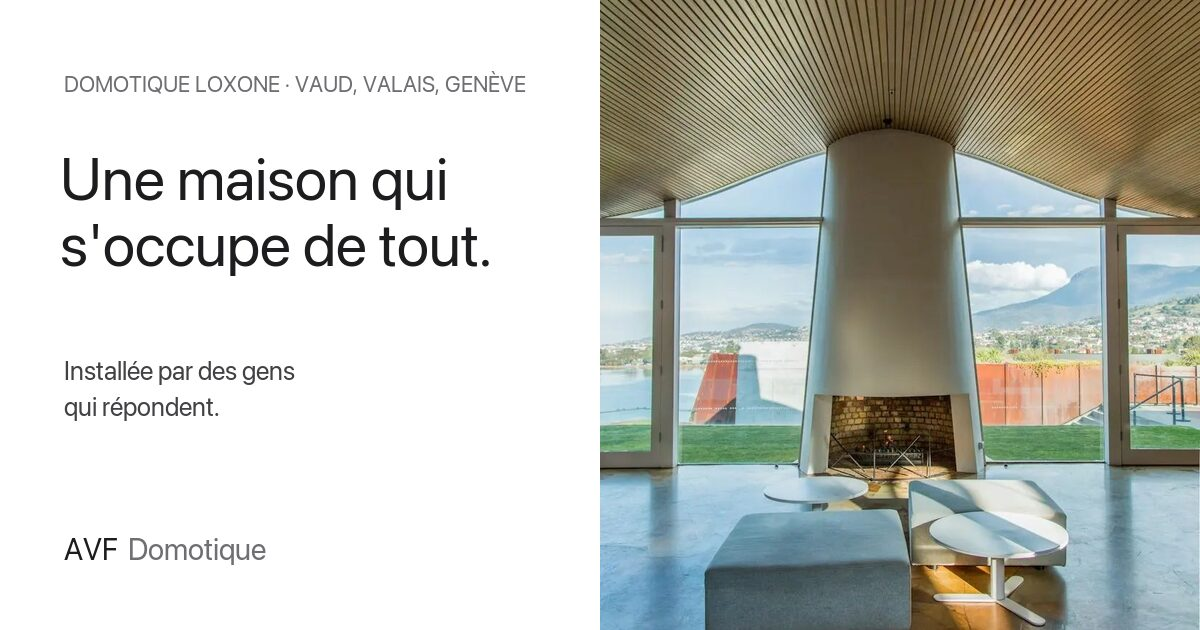
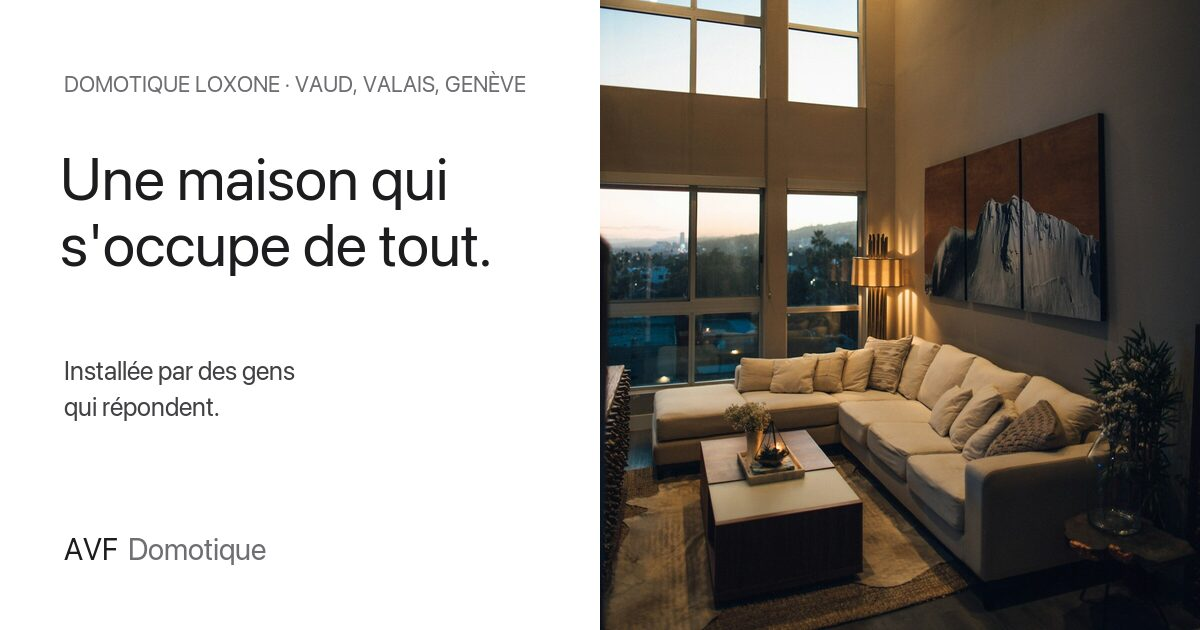
refactor: add better images to describe section

diff --git a/src/components/sections/CommitmentsSection.vue b/src/components/sections/CommitmentsSection.vue
@@ -1,5 +1,5 @@
 <script setup lang="ts">
-import entry from "@/assets/img/entry.jpg?w=480;832&picture";
+import lampBlinds from "@/assets/img/lamp-blinds.jpg?w=600;1152&picture";
 import AppIcon from "@/components/ui/AppIcon.vue";
 import AppPicture from "@/components/ui/AppPicture.vue";
 import SectionHeader from "@/components/ui/SectionHeader.vue";
@@ -11,15 +11,15 @@ import { commitments } from "@/content/commitments";
     <div class="wrap">
       <SectionHeader
         id="engagements-title"
-        eyebrow="Nos engagements"
+        eyebrow="Ce que nous faisons pour vous"
         title="Une installation se juge sur dix ans."
-        lead="Voici nos engagements sur chaque projet, du studio à l'atelier."
+        lead="Sur chaque projet, du studio à l'atelier, voici comment nous travaillons."
       />
 
       <div class="grid gap-4 md:grid-cols-2 lg:grid-cols-4 lg:grid-rows-2">
         <article v-reveal class="relative min-h-80 overflow-hidden rounded-box md:col-span-2 lg:row-span-2">
           <AppPicture
-            :picture="entry"
+            :picture="lampBlinds"
             alt=""
             sizes="(min-width: 1024px) 36rem, 100vw"
             img-class="absolute inset-0 h-full w-full object-cover"

diff --git a/src/components/sections/HeroSection.vue b/src/components/sections/HeroSection.vue
@@ -1,5 +1,5 @@
 <script setup lang="ts">
-import living from "@/assets/img/living.jpg?w=480;832&picture";
+import homeDusk from "@/assets/img/home-dusk.jpg?w=544;832;1088&picture";
 import AppPicture from "@/components/ui/AppPicture.vue";
 import { cta } from "@/content/site";
 
@@ -34,11 +34,11 @@ const proofs = [
 
       <figure class="lg:col-span-6">
         <AppPicture
-          :picture="living"
-          alt="Séjour lumineux avec cheminée centrale et grandes baies vitrées donnant sur un lac"
+          :picture="homeDusk"
+          alt="Séjour au crépuscule, éclairé par des spots et un lampadaire, devant de grandes baies vitrées"
           sizes="(min-width: 1024px) 34rem, calc(100vw - 2rem)"
           eager
-          img-class="aspect-[4/5] w-full rounded-box bg-base-200 object-cover sm:aspect-[5/4] lg:aspect-[4/5]"
+          img-class="aspect-[4/5] w-full rounded-box bg-base-200 object-cover object-[50%_65%] sm:aspect-[5/4] lg:aspect-[4/5]"
         />
       </figure>
     </div>

diff --git a/vite.config.ts b/vite.config.ts
@@ -3,7 +3,7 @@ import { defineConfig } from "vite";
 import vue from "@vitejs/plugin-vue";
 import tailwindcss from "@tailwindcss/vite";
 import { imagetools } from "vite-imagetools";
-import { writeFileSync } from "node:fs";
+import { rmSync, writeFileSync } from "node:fs";
 import type { ViteSSGOptions } from "vite-ssg";
 import { canonicalUrl } from "./src/content/site.ts";
 
@@ -36,6 +36,8 @@ export default defineConfig({
       return renderedPaths.concat("/404");
     },
     onFinished: () => {
+      // Manifeste interne au rendu : inutile en ligne
+      rmSync("dist/.vite", { recursive: true, force: true });
       const urls = renderedPaths
         .filter((p) => !NOT_INDEXED.includes(p))
         .map((p) => `  <url><loc>${canonicalUrl(p)}</loc></url>`);

diff --git a/src/content/segments.ts b/src/content/segments.ts
@@ -1,8 +1,8 @@
 import type { Picture } from "vite-imagetools";
 import kitchen from "@/assets/img/kitchen.jpg?w=400;640&picture";
-import shop from "@/assets/img/shop.jpg?w=400;500&picture";
+import shop from "@/assets/img/shop-window.jpg?w=400;640&picture";
 import dining from "@/assets/img/dining.jpg?w=400;640&picture";
-import office from "@/assets/img/office.jpg?w=400;500&picture";
+import office from "@/assets/img/office-daylight.jpg?w=400;640&picture";
 
 export type SegmentId = "residence" | "commerce" | "hotellerie" | "entreprise";
 

diff --git a/src/content/commitments.ts b/src/content/commitments.ts
@@ -16,7 +16,7 @@ export const commitments: Commitment[] = [
   {
     icon: "lock",
     title: "Sécurisé dès la conception",
-    text: "Réseau segmenté, accès distant chiffré, droits par utilisateur. Notre informaticien en est responsable sur chaque chantier.",
+    text: "Le Miniserver fonctionne sur un réseau séparé de vos appareils personnels. L'accès à distance est chiffré, et chaque utilisateur n'a que les droits dont il a besoin.",
   },
   {
     icon: "plug",

diff --git a/README.md b/README.md
@@ -26,10 +26,44 @@ npm run format     # Prettier, tri des classes Tailwind compris
 - `src/assets/main.css` : thème daisyUI `avf` et styles de base
 - `public/` : fichiers copiés tels quels (`favicon.svg`, `.htaccess`, `robots.txt`)
 
-## Mise en ligne
+## Mise en ligne (Infomaniak)
 
-Envoyer **le contenu** de `dist/` à la racine du domaine, y compris le fichier caché `.htaccess`.
-Chaque page est générée en HTML (`/mentions-legales/index.html`…), la 404 sous `/404/`.
+### Première mise en ligne
+
+1. **Manager Infomaniak > Hébergement** : créer le site `avf-domotique.ch` et noter son **dossier racine** (souvent `/sites/avf-domotique.ch`).
+2. **Certificat SSL** : dans les réglages du site, activer le certificat Let's Encrypt pour `avf-domotique.ch` et `www.avf-domotique.ch`, puis l'option qui **force le HTTPS**.
+3. **www** : rediriger `www.avf-domotique.ch` vers `avf-domotique.ch` (redirection 301 dans les réglages du site).
+4. **Accès** : dans **FTP / SSH**, créer un compte et noter l'hôte, l'utilisateur et le mot de passe.
+
+### À chaque mise à jour
+
+1. Vérifier que `.env.local` contient la clé Web3Forms (elle est intégrée au build).
+2. Construire et vérifier :
+   ```bash
+   npm ci && npm run lint && npm test && npm run build
+   npm run preview   # contrôle local de dist/
+   ```
+3. Envoyer **le contenu** de `dist/` (fichier caché `.htaccess` compris) dans le dossier racine :
+   - **SSH / rsync** (recommandé) : essai à blanc avec `-n`, puis envoi réel ; `--delete` retire les anciens fichiers.
+     ```bash
+     rsync -avzn --delete dist/ UTILISATEUR@HOTE:/sites/avf-domotique.ch/
+     rsync -avz  --delete dist/ UTILISATEUR@HOTE:/sites/avf-domotique.ch/
+     ```
+   - **SFTP** (FileZilla…) : afficher les fichiers cachés, supprimer l'ancien contenu, puis déposer celui de `dist/`.
+
+### Vérifications après mise en ligne
+
+- `https://avf-domotique.ch/`, `/confidentialite/`, `/mentions-legales/` s'affichent ; `http://` et `www` redirigent vers `https://avf-domotique.ch/`.
+- Une adresse inexistante (`/test`) affiche la page 404 du site.
+- Le formulaire envoie bien un e-mail à `info@avf-domotique.ch` depuis le site en ligne.
+- `https://avf-domotique.ch/sitemap.xml` et `/robots.txt` répondent.
+- En-têtes : `curl -I https://avf-domotique.ch/` montre `x-content-type-options: nosniff`.
+- Aperçu de partage : coller l'URL dans un message (WhatsApp, LinkedIn…) affiche l'image et le titre.
+
+### Ensuite
+
+- **Google Search Console** : ajouter le domaine, puis soumettre `https://avf-domotique.ch/sitemap.xml`.
+- **Google Business Profile** : fiche « AVF Domotique » à Etoy, avec le lien vers le site.
 
 ## Formulaire de contact
 

diff --git a/src/assets/img/CREDITS.md b/src/assets/img/CREDITS.md
@@ -1,7 +1,15 @@
 # Crédits photos (provisoires)
 
-Photos de banque d'images libres (usage commercial autorisé, attribution non obligatoire).
+Photos sous licence Unsplash (usage commercial autorisé, attribution non obligatoire).
 **À remplacer par des photos de nos propres réalisations dès que possible.**
 
-- `living.jpg`, `kitchen.jpg`, `dining.jpg`, `entry.jpg` : Unsplash (Mahdis Mousavi, Jennie Wilson, Cindy Fogg, Clay Banks)
-- `shop.jpg`, `office.jpg` : Unsplash
+| Fichier               | Utilisation                     | Photographe        | Source                                  |
+| --------------------- | ------------------------------- | ------------------ | --------------------------------------- |
+| `home-dusk.jpg`       | Haut de page                    | Roberto Nickson    | https://unsplash.com/photos/rEJxpBskj3Q |
+| `shop-window.jpg`     | Pour qui : Commerces            | Alex Oviedo        | https://unsplash.com/photos/I5XMu2AUR10 |
+| `office-daylight.jpg` | Pour qui : Bureaux et industrie | Copernico          | https://unsplash.com/photos/-8DAN9_oi8g |
+| `lamp-blinds.jpg`     | Ce que nous faisons pour vous   | Christopher Stites | https://unsplash.com/photos/tedtXRcL1AI |
+| `kitchen.jpg`         | Pour qui : Résidences           | voir note          | Unsplash                                |
+| `dining.jpg`          | Pour qui : Hôtellerie           | voir note          | Unsplash                                |
+
+`kitchen.jpg` et `dining.jpg` proviennent du thème « Shoal » (Formgong). Photographes Unsplash crédités ensemble : Mahdis Mousavi, Jennie Wilson, Cindy Fogg, Clay Banks.
